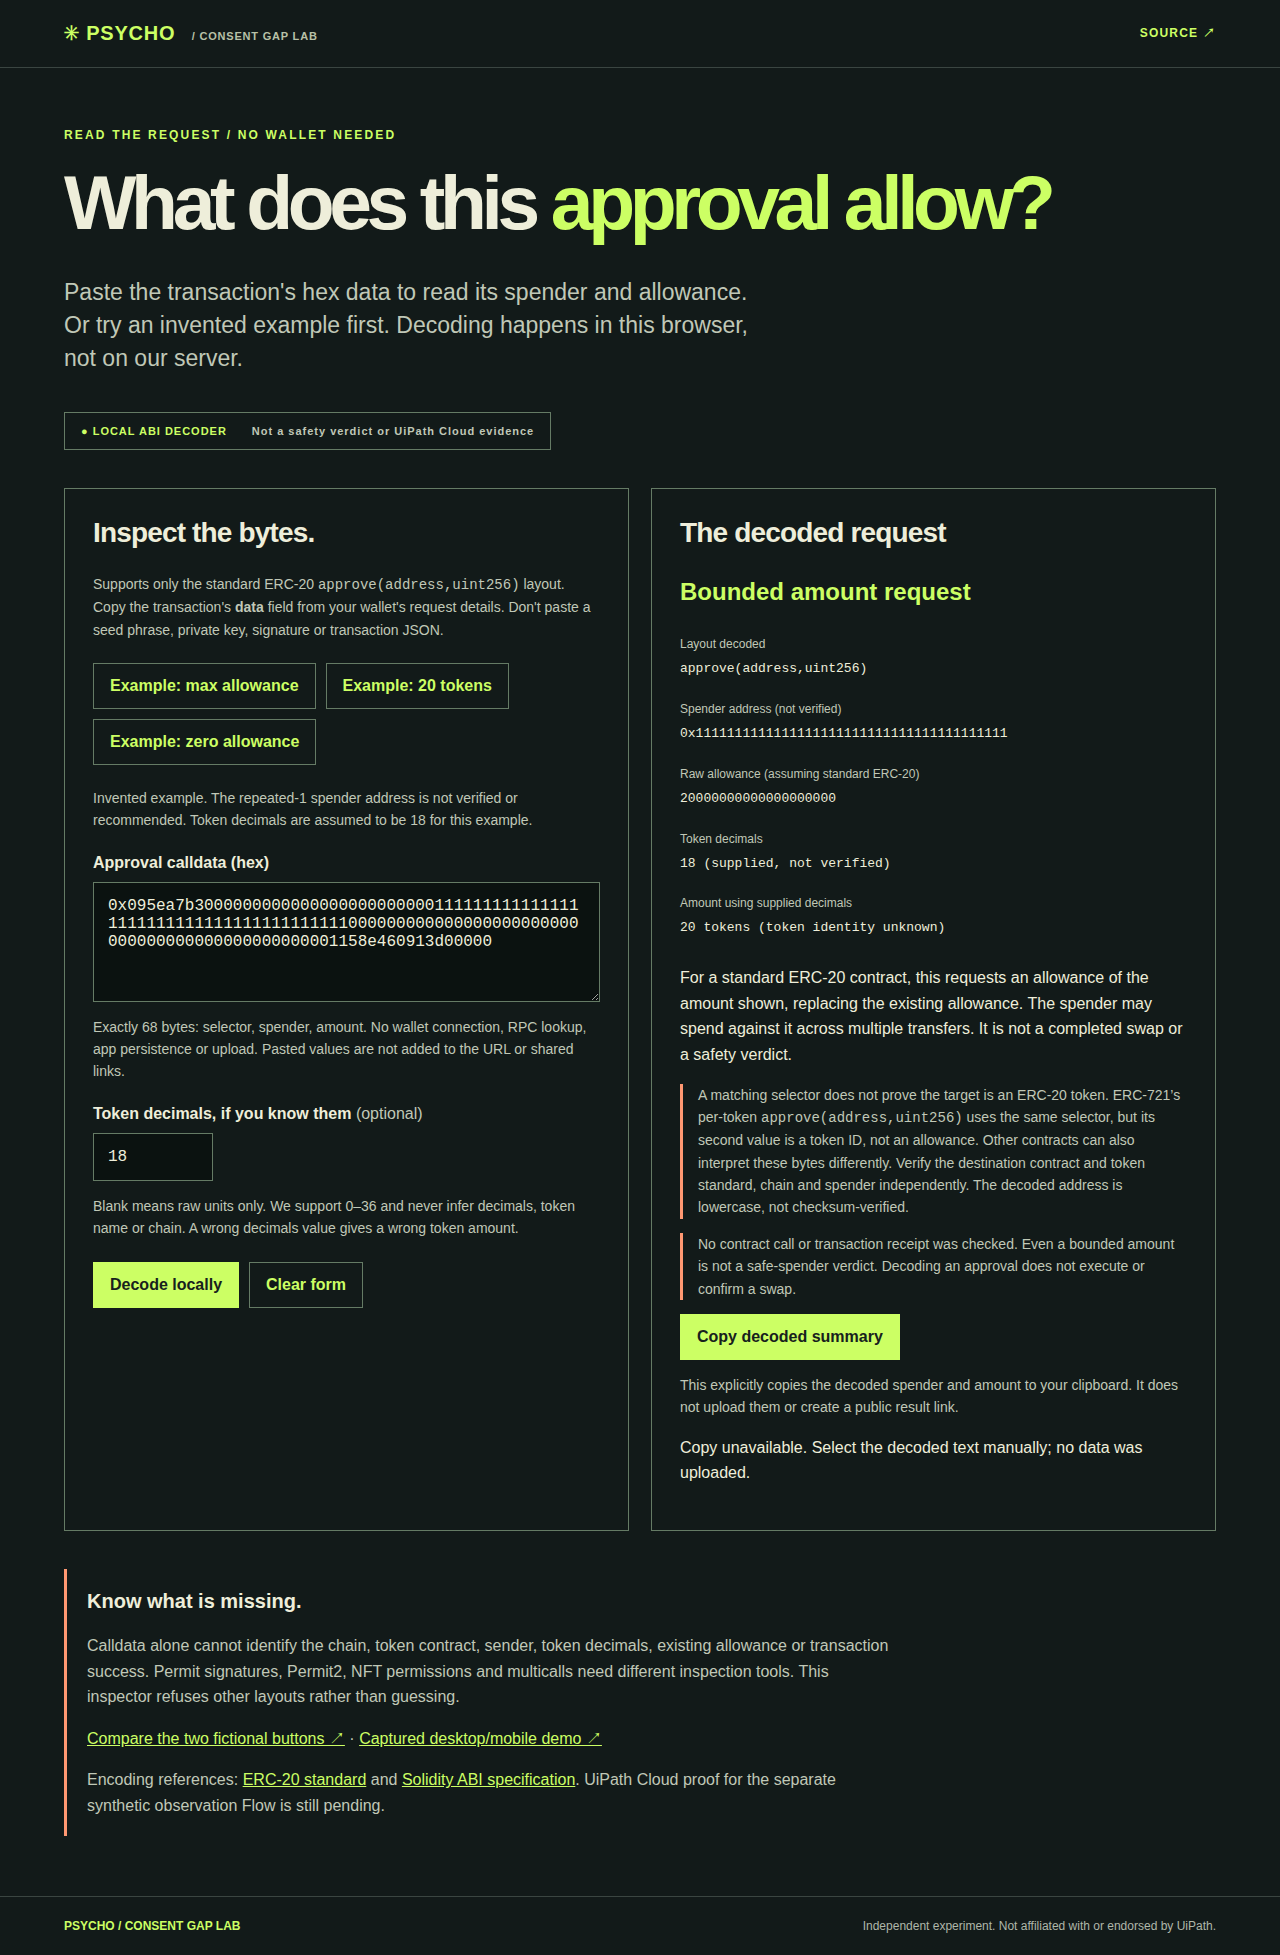
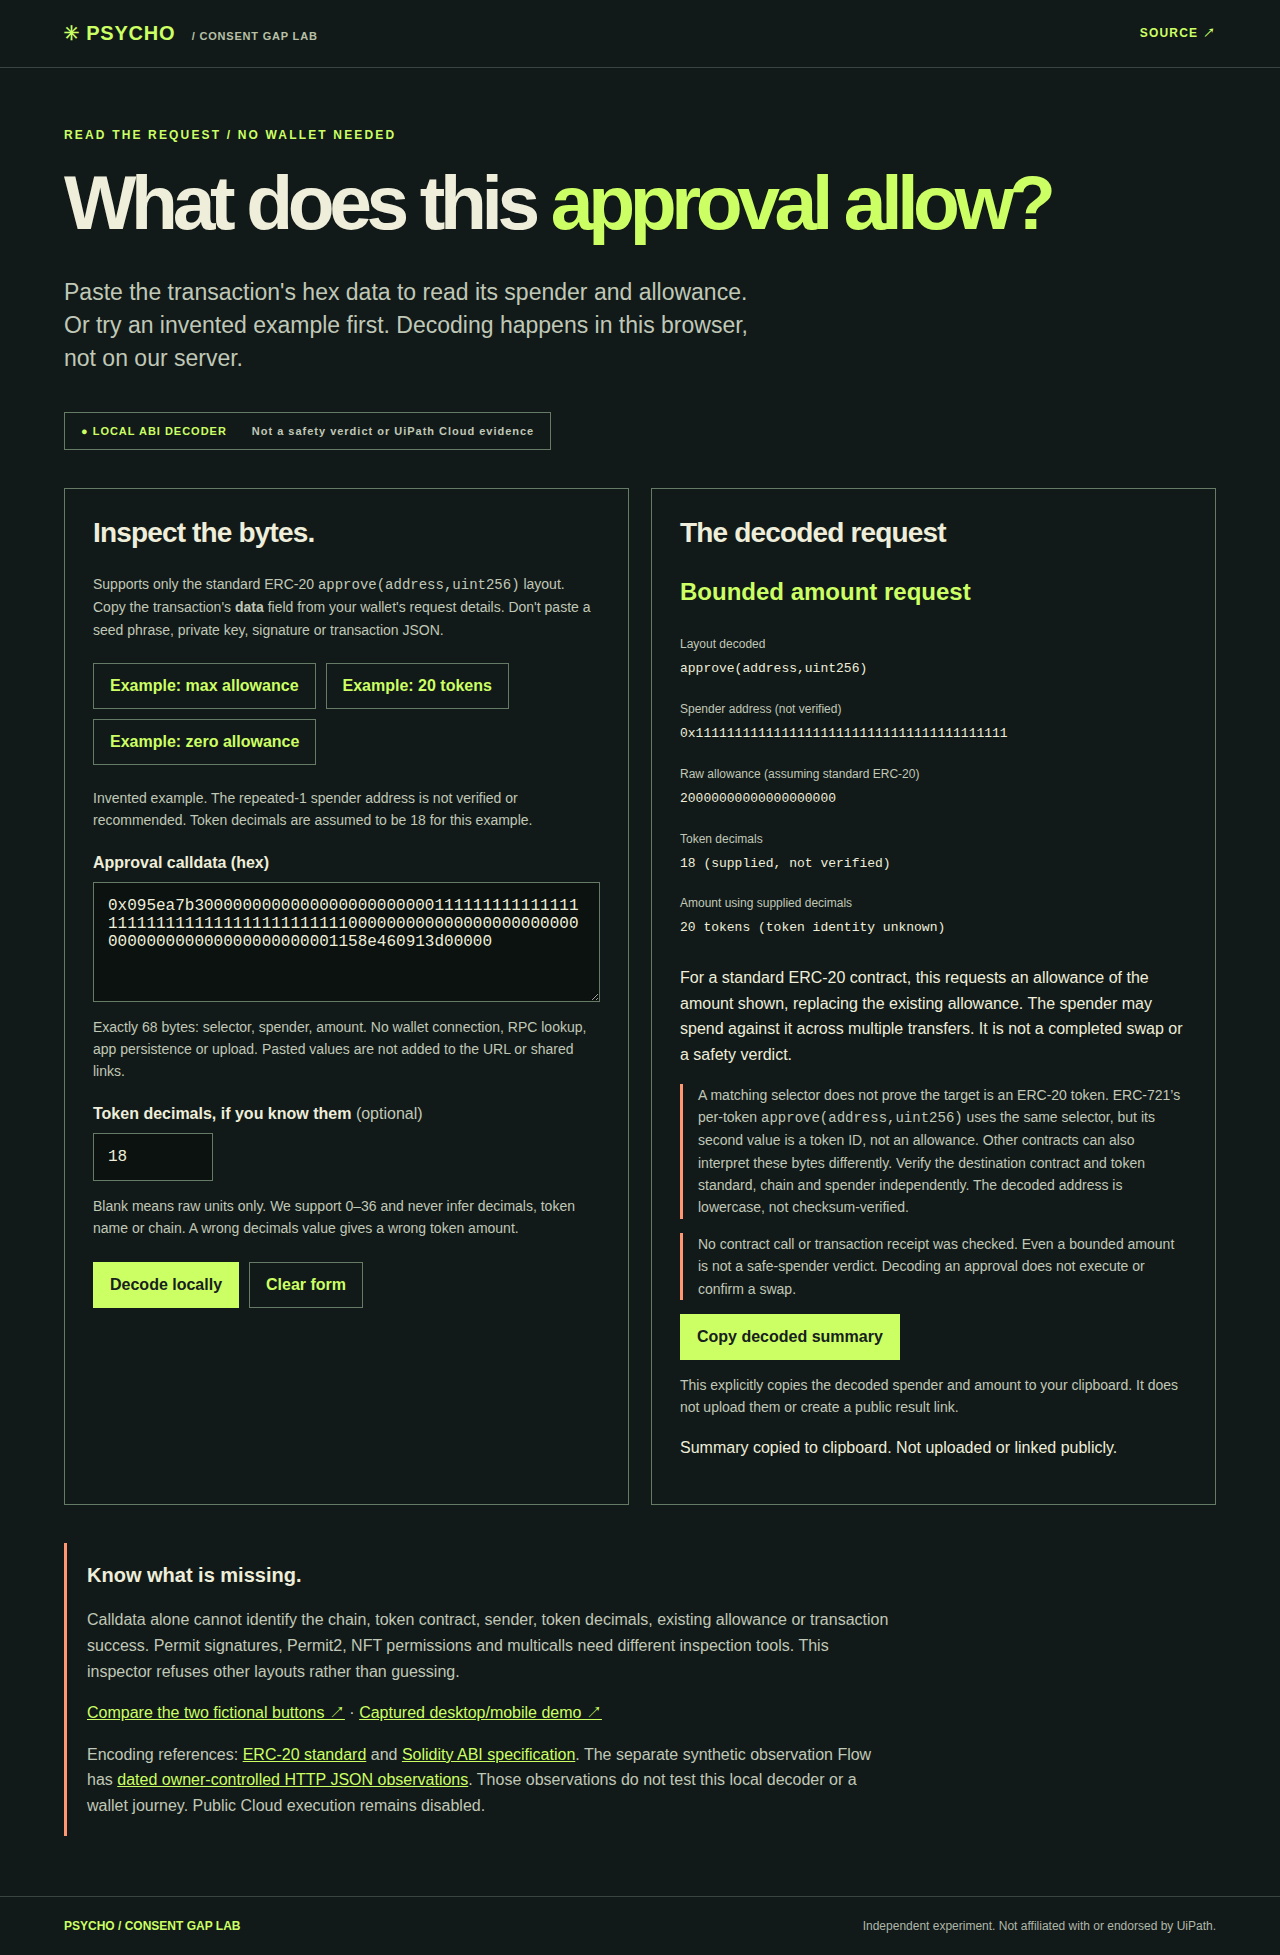
Publish verified workspace 2284884cc6d5e705769f1b083f9d1fd9946cca97

Changed region(s): [[0.0625, 0.7801, 0.6875, 0.9361], [0.5312, 0.7176, 0.875, 0.7801]]

diff --git a/public/demo.html b/public/demo.html
@@ -4,12 +4,12 @@
 <body>
 <header><a class="brand" href="/">✳ PSYCHO <span>/ FIELD LAB 001</span></a><a href="/?view=compare#comparison">Try the comparison ↗</a></header>
 <main>
-<section class="intro"><p class="eyebrow">Authentic Chromium captures / 2026-10-05 and 2026-10-06</p><h1>Same button.<br><em>Different permission.</em></h1><p class="dek">Compare two invented approval requests with identical button copy. Share the comparison, or make your own prediction first. No wallet required.</p><div class="status">LOCAL SYNTHETIC DEMO <span>Not wallet screenshots or UiPath Cloud traces</span></div></section>
+<section class="intro"><p class="eyebrow">Authentic Chromium captures / 2026-10-05 to 2026-10-07</p><h1>Same button.<br><em>Different permission.</em></h1><p class="dek">Compare two invented approval requests with identical button copy. Share the comparison, or make your own prediction first. No wallet required.</p><div class="status">LOCAL SYNTHETIC DEMO <span>Not wallet screenshots or UiPath Cloud traces</span></div></section>
 <section class="demo-captures">
 <h2>Dated owner observations / publication captured 2026-10-06</h2><p>Explore the published, deliberately redacted outputs of two owner-controlled UiPath HTTP JSON runs. These are screenshots of the evidence page, not UiPath tenant traces or wallet captures. <a href="/evidence.html">Read the observations and compare fixture digests locally ↗</a></p>
 <a href="/demo/evidence-1280.png"><img src="/demo/evidence-1280.png" alt="Desktop capture of the dated unlimited owner observation, its historical Flow revision and local fixture-digest match with narrow-proof caveats." width="1280" loading="lazy"></a>
 <a href="/demo/evidence-390.png"><img src="/demo/evidence-390.png" alt="Mobile capture of the same redacted owner observation and local digest comparison stacked vertically." width="390" loading="lazy"></a>
-<h2>Local approval decoding / 2026-10-06</h2><p>The invented 20-token request is decoded in-browser into its spender and raw allowance. Decimals are supplied as 18 for this synthetic example, not looked up. No wallet, RPC or Cloud run. <a href="/inspect.html">Try your own local request or an example ↗</a></p>
+<h2>Local approval decoding / 2026-10-07</h2><p>The invented 20-token request is decoded in-browser into its spender and raw allowance. Decimals are supplied as 18 for this synthetic example, not looked up. No wallet, RPC or Cloud run. <a href="/inspect.html">Try your own local request or an example ↗</a></p>
 <a href="/demo/inspect-1280.png"><img src="/demo/inspect-1280.png" alt="Desktop screenshot of the local approval inspector decoding an invented 20-token request, with unverified spender and supplied-decimals caveats." width="1280" loading="lazy"></a>
 <a href="/demo/inspect-390.png"><img src="/demo/inspect-390.png" alt="Mobile screenshot of the same invented approval decoding, with input and output stacked vertically." width="390" loading="lazy"></a>
 <h2>Side-by-side permissions / 2026-10-06</h2><p>The orange fields show the allowance difference. Both approvals are separate from the swap. <a href="/?view=compare#comparison">Explore and copy a comparison link ↗</a></p>

diff --git a/public/inspect.html b/public/inspect.html
@@ -41,7 +41,7 @@
 </div>
 </section>
 </div>
-<aside class="inspection-note"><h3>Know what is missing.</h3><p>Calldata alone cannot identify the chain, token contract, sender, token decimals, existing allowance or transaction success. Permit signatures, Permit2, NFT permissions and multicalls need different inspection tools. This inspector refuses other layouts rather than guessing.</p><p><a href="/?view=compare#comparison">Compare the two fictional buttons ↗</a> · <a href="/demo.html">Captured desktop/mobile demo ↗</a></p><p>Encoding references: <a href="https://eips.ethereum.org/EIPS/eip-20">ERC-20 standard</a> and <a href="https://docs.soliditylang.org/en/latest/abi-spec.html">Solidity ABI specification</a>. UiPath Cloud proof for the separate synthetic observation Flow is still pending.</p></aside>
+<aside class="inspection-note"><h3>Know what is missing.</h3><p>Calldata alone cannot identify the chain, token contract, sender, token decimals, existing allowance or transaction success. Permit signatures, Permit2, NFT permissions and multicalls need different inspection tools. This inspector refuses other layouts rather than guessing.</p><p><a href="/?view=compare#comparison">Compare the two fictional buttons ↗</a> · <a href="/demo.html">Captured desktop/mobile demo ↗</a></p><p>Encoding references: <a href="https://eips.ethereum.org/EIPS/eip-20">ERC-20 standard</a> and <a href="https://docs.soliditylang.org/en/latest/abi-spec.html">Solidity ABI specification</a>. The separate synthetic observation Flow has <a href="/evidence.html">dated owner-controlled HTTP JSON observations</a>. Those observations do not test this local decoder or a wallet journey. Public Cloud execution remains disabled.</p></aside>
 </main>
 <footer><strong>PSYCHO / CONSENT GAP LAB</strong><span>Independent experiment. Not affiliated with or endorsed by UiPath.</span></footer>
 <script type="module" src="/inspect.js"></script>

diff --git a/tests/server.test.js b/tests/server.test.js
@@ -25,6 +25,16 @@ test('inspector refuses network connections and form submission at policy level'
   assert.match(response.headers.get('content-security-policy'), /object-src 'none'/);
   assert.equal(response.headers.get('referrer-policy'), 'no-referrer');
 });
+test('local decoder links dated observations without claiming Cloud coverage', async () => {
+  const response = await fetch(base + '/inspect.html');
+  assert.equal(response.status, 200);
+  const html = await response.text();
+  assert.match(html, /href="\/evidence\.html">dated owner-controlled HTTP JSON observations<\/a>/);
+  assert.match(html, /Those observations do not test this local decoder or a wallet journey/);
+  assert.match(html, /Public Cloud execution remains disabled/);
+  assert.doesNotMatch(html, /proof[^<.]*pending|#uipath-observation-status/i);
+  assert.equal((await fetch(base + '/evidence.html')).status, 200);
+});
 test('health endpoint and HEAD work', async () => {
   const health = await fetch(base + '/healthz');
   assert.deepEqual(await health.json(), {status: 'ok'});
